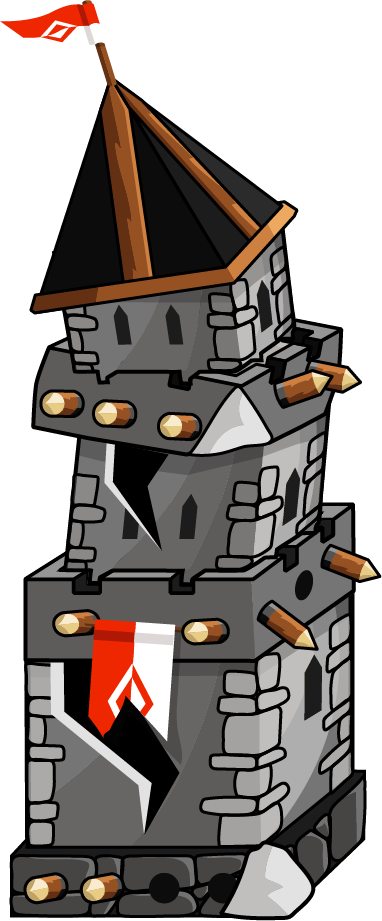
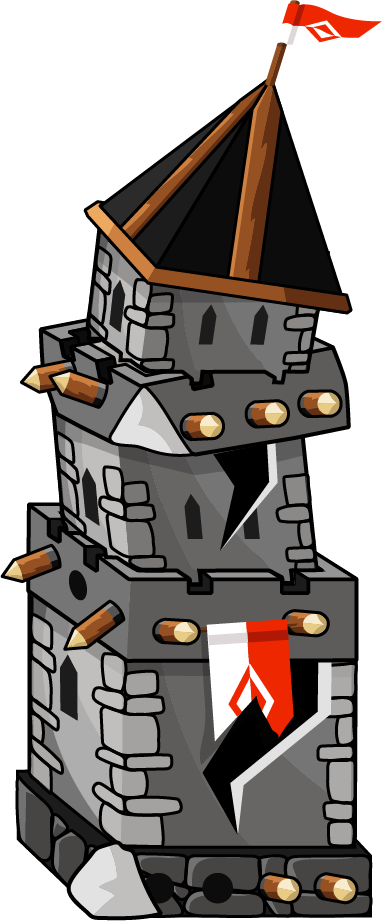
fgadfv

diff --git a/TowerDefence/Tower Defence.py b/TowerDefence/Tower Defence.py
@@ -8,8 +8,8 @@ pygame.init()
 FPS = 60
 clock = pygame.time.Clock()
 tegelane_lisamis_delay = 20
-vasaku_torni_elud = 3
-parema_torni_elud = 3
+vasaku_torni_elud = 5
+parema_torni_elud = 5
 
 
 #VÕTAB ARVUTI EKRAANI MÕÕTME JA LOOB MÄNGU EKRAANI SUURUSE 
@@ -28,6 +28,8 @@ pygame.display.set_caption("TOWER DEFENCE")
 #LAEB PILDID JA MUUDAB NEED SOBIVAKS SUURUSEKS
 game_over = pygame.image.load("images/game_over.png")
 game_over = pygame.transform.scale(game_over, (x_global,y_global))
+
+
 
 taust = pygame.image.load("images/taust.png")
 taust = pygame.transform.scale(taust, (x_global, y_global))
@@ -49,6 +51,36 @@ parem_torn2 = pygame.transform.scale(parem_torn2, (int(0.2 * y_global), int(0.2 
 
 parem_torn3 = pygame.image.load("images/paremad_tornid/parem_torn3.png")
 parem_torn3 = pygame.transform.scale(parem_torn3, (int(0.2 * y_global), int(0.2 * x_global)))
+
+vasak_elud5 = pygame.image.load("images/vasak_elud/vasak_elud5.png")
+vasak_elud5 = pygame.transform.scale(vasak_elud5, (int(0.1 * y_global), int(0.03 * x_global)))
+
+vasak_elud4 = pygame.image.load("images/vasak_elud/vasak_elud4.png")
+vasak_elud4 = pygame.transform.scale(vasak_elud4, (int(0.1 * y_global), int(0.03 * x_global)))
+
+vasak_elud3 = pygame.image.load("images/vasak_elud/vasak_elud3.png")
+vasak_elud3 = pygame.transform.scale(vasak_elud3, (int(0.1 * y_global), int(0.03 * x_global)))
+
+vasak_elud2 = pygame.image.load("images/vasak_elud/vasak_elud2.png")
+vasak_elud2 = pygame.transform.scale(vasak_elud2, (int(0.1 * y_global), int(0.03 * x_global)))
+
+vasak_elud1 = pygame.image.load("images/vasak_elud/vasak_elud1.png")
+vasak_elud1 = pygame.transform.scale(vasak_elud1, (int(0.1 * y_global), int(0.03 * x_global)))
+
+parem_elud5 = pygame.image.load("images/parem_elud/parem_elud5.png")
+parem_elud5 = pygame.transform.scale(parem_elud5, (int(0.1 * y_global), int(0.03 * x_global)))
+
+parem_elud4 = pygame.image.load("images/parem_elud/parem_elud4.png")
+parem_elud4 = pygame.transform.scale(parem_elud4, (int(0.1 * y_global), int(0.03 * x_global)))
+
+parem_elud3 = pygame.image.load("images/parem_elud/parem_elud3.png")
+parem_elud3 = pygame.transform.scale(parem_elud3, (int(0.1 * y_global), int(0.03 * x_global)))
+
+parem_elud2 = pygame.image.load("images/parem_elud/parem_elud2.png")
+parem_elud2 = pygame.transform.scale(parem_elud2, (int(0.1 * y_global), int(0.03 * x_global)))
+
+parem_elud1 = pygame.image.load("images/parem_elud/parem_elud1.png")
+parem_elud1 = pygame.transform.scale(parem_elud1, (int(0.1 * y_global), int(0.03 * x_global)))
 
 
 mehikese_pildid = [pygame.image.load("images/mehike/mehike1.png"), pygame.image.load("images/mehike/mehike2.png"), pygame.image.load("images/mehike/mehike3.png"),\
@@ -352,7 +384,7 @@ def kokkupuude9():
 
 
 
-def draw(vasaktorn, paremtorn):
+def draw(vasaktorn, paremtorn, vasakud_elud, paremad_elud):
     kokkupuude1()
     kokkupuude2()
     kokkupuude3()
@@ -381,6 +413,8 @@ def draw(vasaktorn, paremtorn):
     parem_torn_sprite.update()
     parem_torn_sprite.draw(mängu_screen)
     mängu_screen.blit(paremtorn, (1.01 * (x_global - int(0.2 * y_global)), 0.55 * y_global))
+    mängu_screen.blit(vasakud_elud, (0.015 * x_global, 0.49 * y_global))
+    mängu_screen.blit(paremad_elud, (0.925 * x_global, 0.49 * y_global))
     pygame.display.update()
 
 def draw_game_over():
@@ -474,23 +508,44 @@ while a:
             if event.key == pygame.K_ESCAPE:
                 a = False
 
-    if vasaku_torni_elud == 3:
+    if vasaku_torni_elud > 3:
         vasaktorn = vasak_torn1
-    if vasaku_torni_elud == 2:
+    if vasaku_torni_elud > 1 and vasaku_torni_elud < 4:
         vasaktorn = vasak_torn2
     if vasaku_torni_elud == 1:
         vasaktorn = vasak_torn3
 
-    if parema_torni_elud == 3:
+    if parema_torni_elud > 3:
         paremtorn = parem_torn1
-    if parema_torni_elud == 2:
+    if parema_torni_elud > 1 and parema_torni_elud < 4:
         paremtorn = parem_torn2
     if parema_torni_elud == 1:
         paremtorn = parem_torn3
 
+    if vasaku_torni_elud == 5:
+        vasakud_elud = vasak_elud5
+    if vasaku_torni_elud == 4:
+        vasakud_elud = vasak_elud4
+    if vasaku_torni_elud == 3:
+        vasakud_elud = vasak_elud3
+    if vasaku_torni_elud == 2:
+        vasakud_elud = vasak_elud2
+    if vasaku_torni_elud == 1:
+        vasakud_elud = vasak_elud1
+    if parema_torni_elud == 5:
+        paremad_elud = parem_elud5
+    if parema_torni_elud == 4:
+        paremad_elud = parem_elud4
+    if parema_torni_elud == 3:
+        paremad_elud = parem_elud3
+    if parema_torni_elud == 2:
+        paremad_elud = parem_elud2
+    if parema_torni_elud == 1:
+        paremad_elud = parem_elud1
+
 
     if b == 0:
-        draw(vasaktorn, paremtorn)
+        draw(vasaktorn, paremtorn, vasakud_elud, paremad_elud)
     if b == 1:
         draw_game_over()
 
